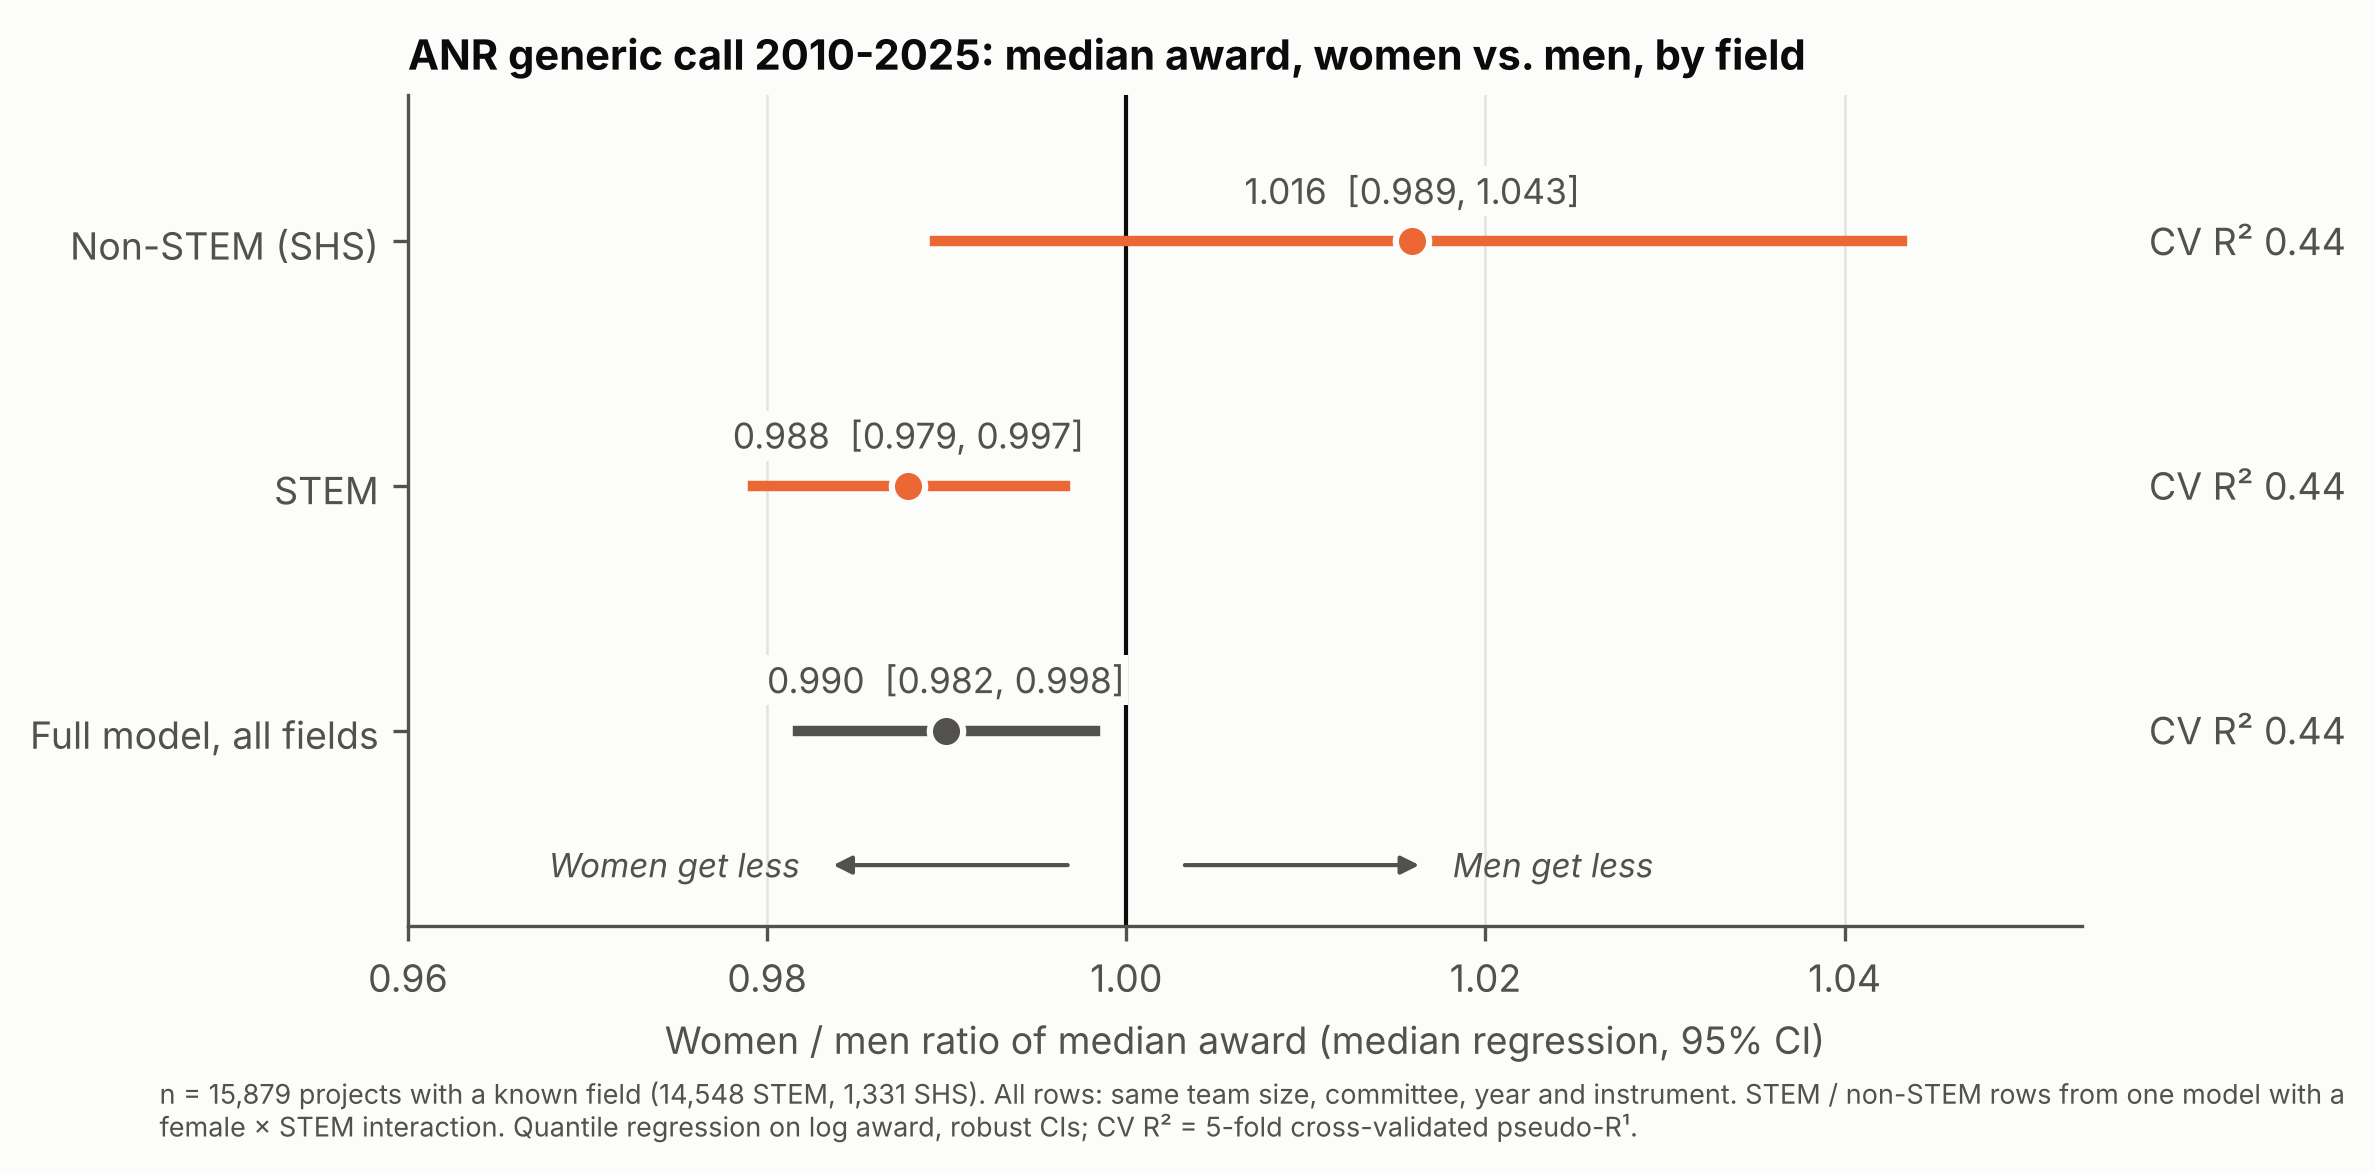
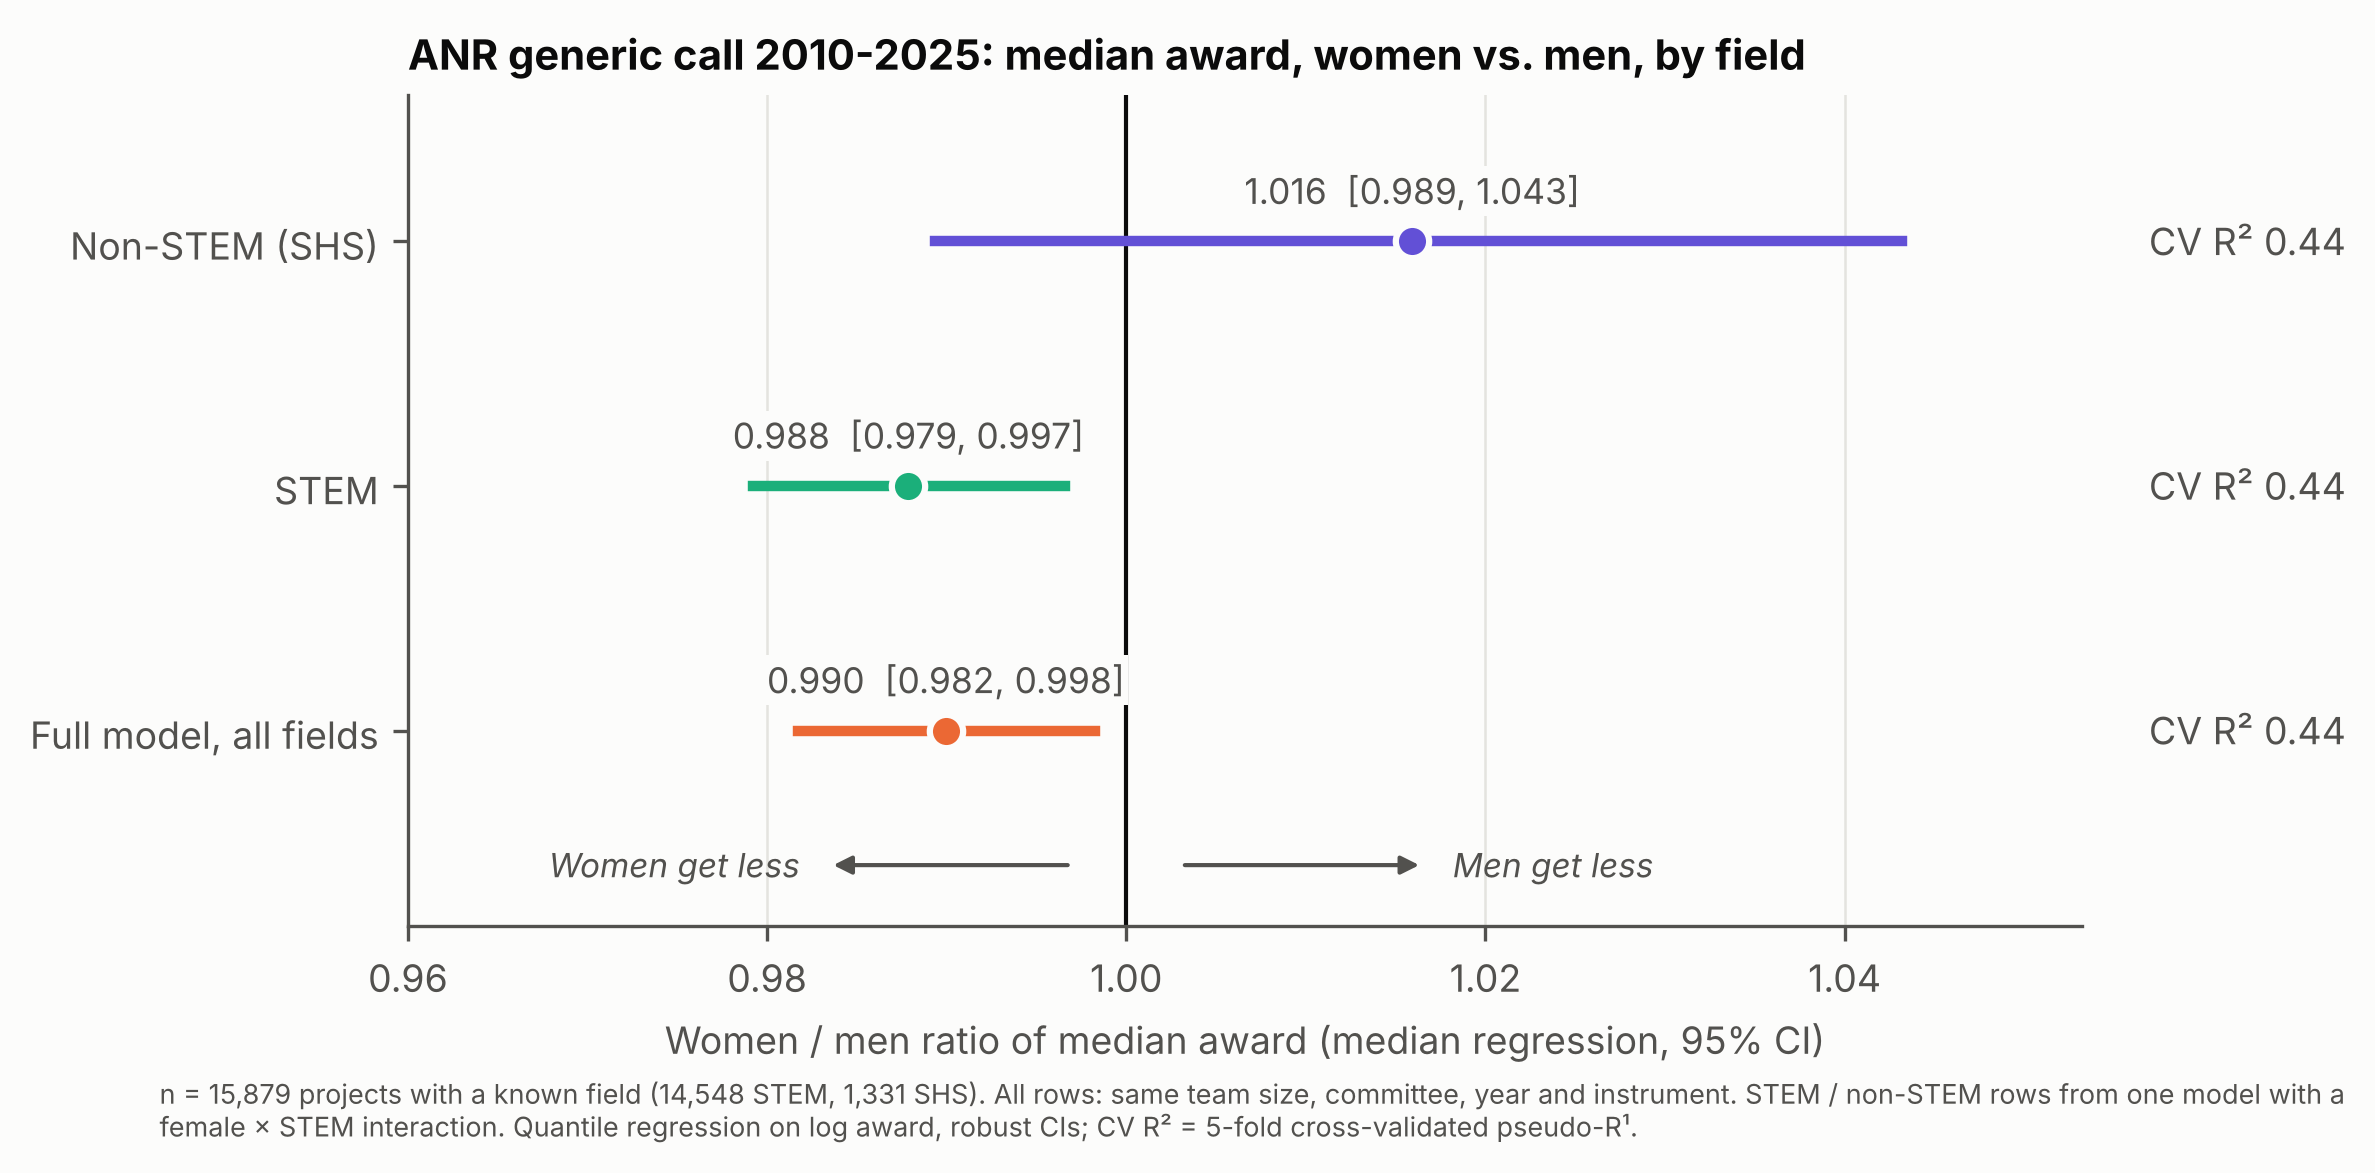
Colour STEM figure rows: full model orange, STEM aqua, non-STEM violet
Claude-Session: https://claude.ai/code/session_01PAzkXMGCXxjV7L2RQiVK7i

Changed region(s): [[0.3739, 0.1841, 0.8101, 0.2148], [0.3116, 0.399, 0.4674, 0.4297], [0.3427, 0.6138, 0.4674, 0.6445]]

diff --git a/anr-gender/analysis.py b/anr-gender/analysis.py
@@ -51,6 +51,7 @@ MIN_PER_GENDER = 30
 
 # Colours: categorical slots 1-2 of the reference palette (women = orange, men = blue)
 C_F, C_M = "#eb6834", "#2a78d6"
+C_STEM, C_NONSTEM = "#1baf7a", "#6250d6"  # categorical slots 3 and 7 (validated with orange)
 INK, INK2, GRID = "#0b0b0b", "#52514e", "#e4e3df"
 plt.rcParams.update({
     "figure.facecolor": "#fcfcfb", "axes.facecolor": "#fcfcfb", "savefig.facecolor": "#fcfcfb",
@@ -567,13 +568,13 @@ FIG2_MODELS = [  # (label in figure, key in model_fit, formula rhs)
 ]
 
 
-def forest_rows(t, fname, title, note, data, grey=(), xmin=None):
+def forest_rows(t, fname, title, note, data, grey=(), xmin=None, colors=None):
     """Shared row plot: one median-regression ratio per row (first row at the bottom, so slides can
     build up by cropping from the top), direction arrows, and a CV R² label on every row."""
     fig, ax = plt.subplots(figsize=(7.2, max(3.6, 0.9 * len(t))))
     y = list(range(len(t)))  # raw at the bottom, each added control one row up (crop from the top to build up)
     for yi, (_, r) in zip(y, t.iterrows()):
-        col = INK2 if r.model in grey else C_F
+        col = (colors or {}).get(r.model, INK2 if r.model in grey else C_F)
         ax.plot([r.ratio_lo, r.ratio_hi], [yi, yi], color=col, lw=2.5)
         ax.plot(r.ratio_pct, yi, "o", color=col, ms=8, mec="#fcfcfb", mew=1.5)
         ax.annotate(f"{r.ratio_pct:.3f}  [{r.ratio_lo:.3f}, {r.ratio_hi:.3f}]", (r.ratio_pct, yi),
@@ -865,7 +866,7 @@ def stem_figure(a):
             "female × STEM interaction. Quantile regression on log award, robust CIs; CV R² = 5-fold cross-validated pseudo-R¹.")
     forest_rows(t, "fig9_full_model_stem_vs_nonstem",
                 "ANR generic call 2010-2025: median award, women vs. men, by field", note, t,
-                grey={"Full model, all fields"}, xmin=0.96)
+                xmin=0.96, colors={"Full model, all fields": C_F, "STEM": C_STEM, "Non-STEM (SHS)": C_NONSTEM})
     return t
 
 
